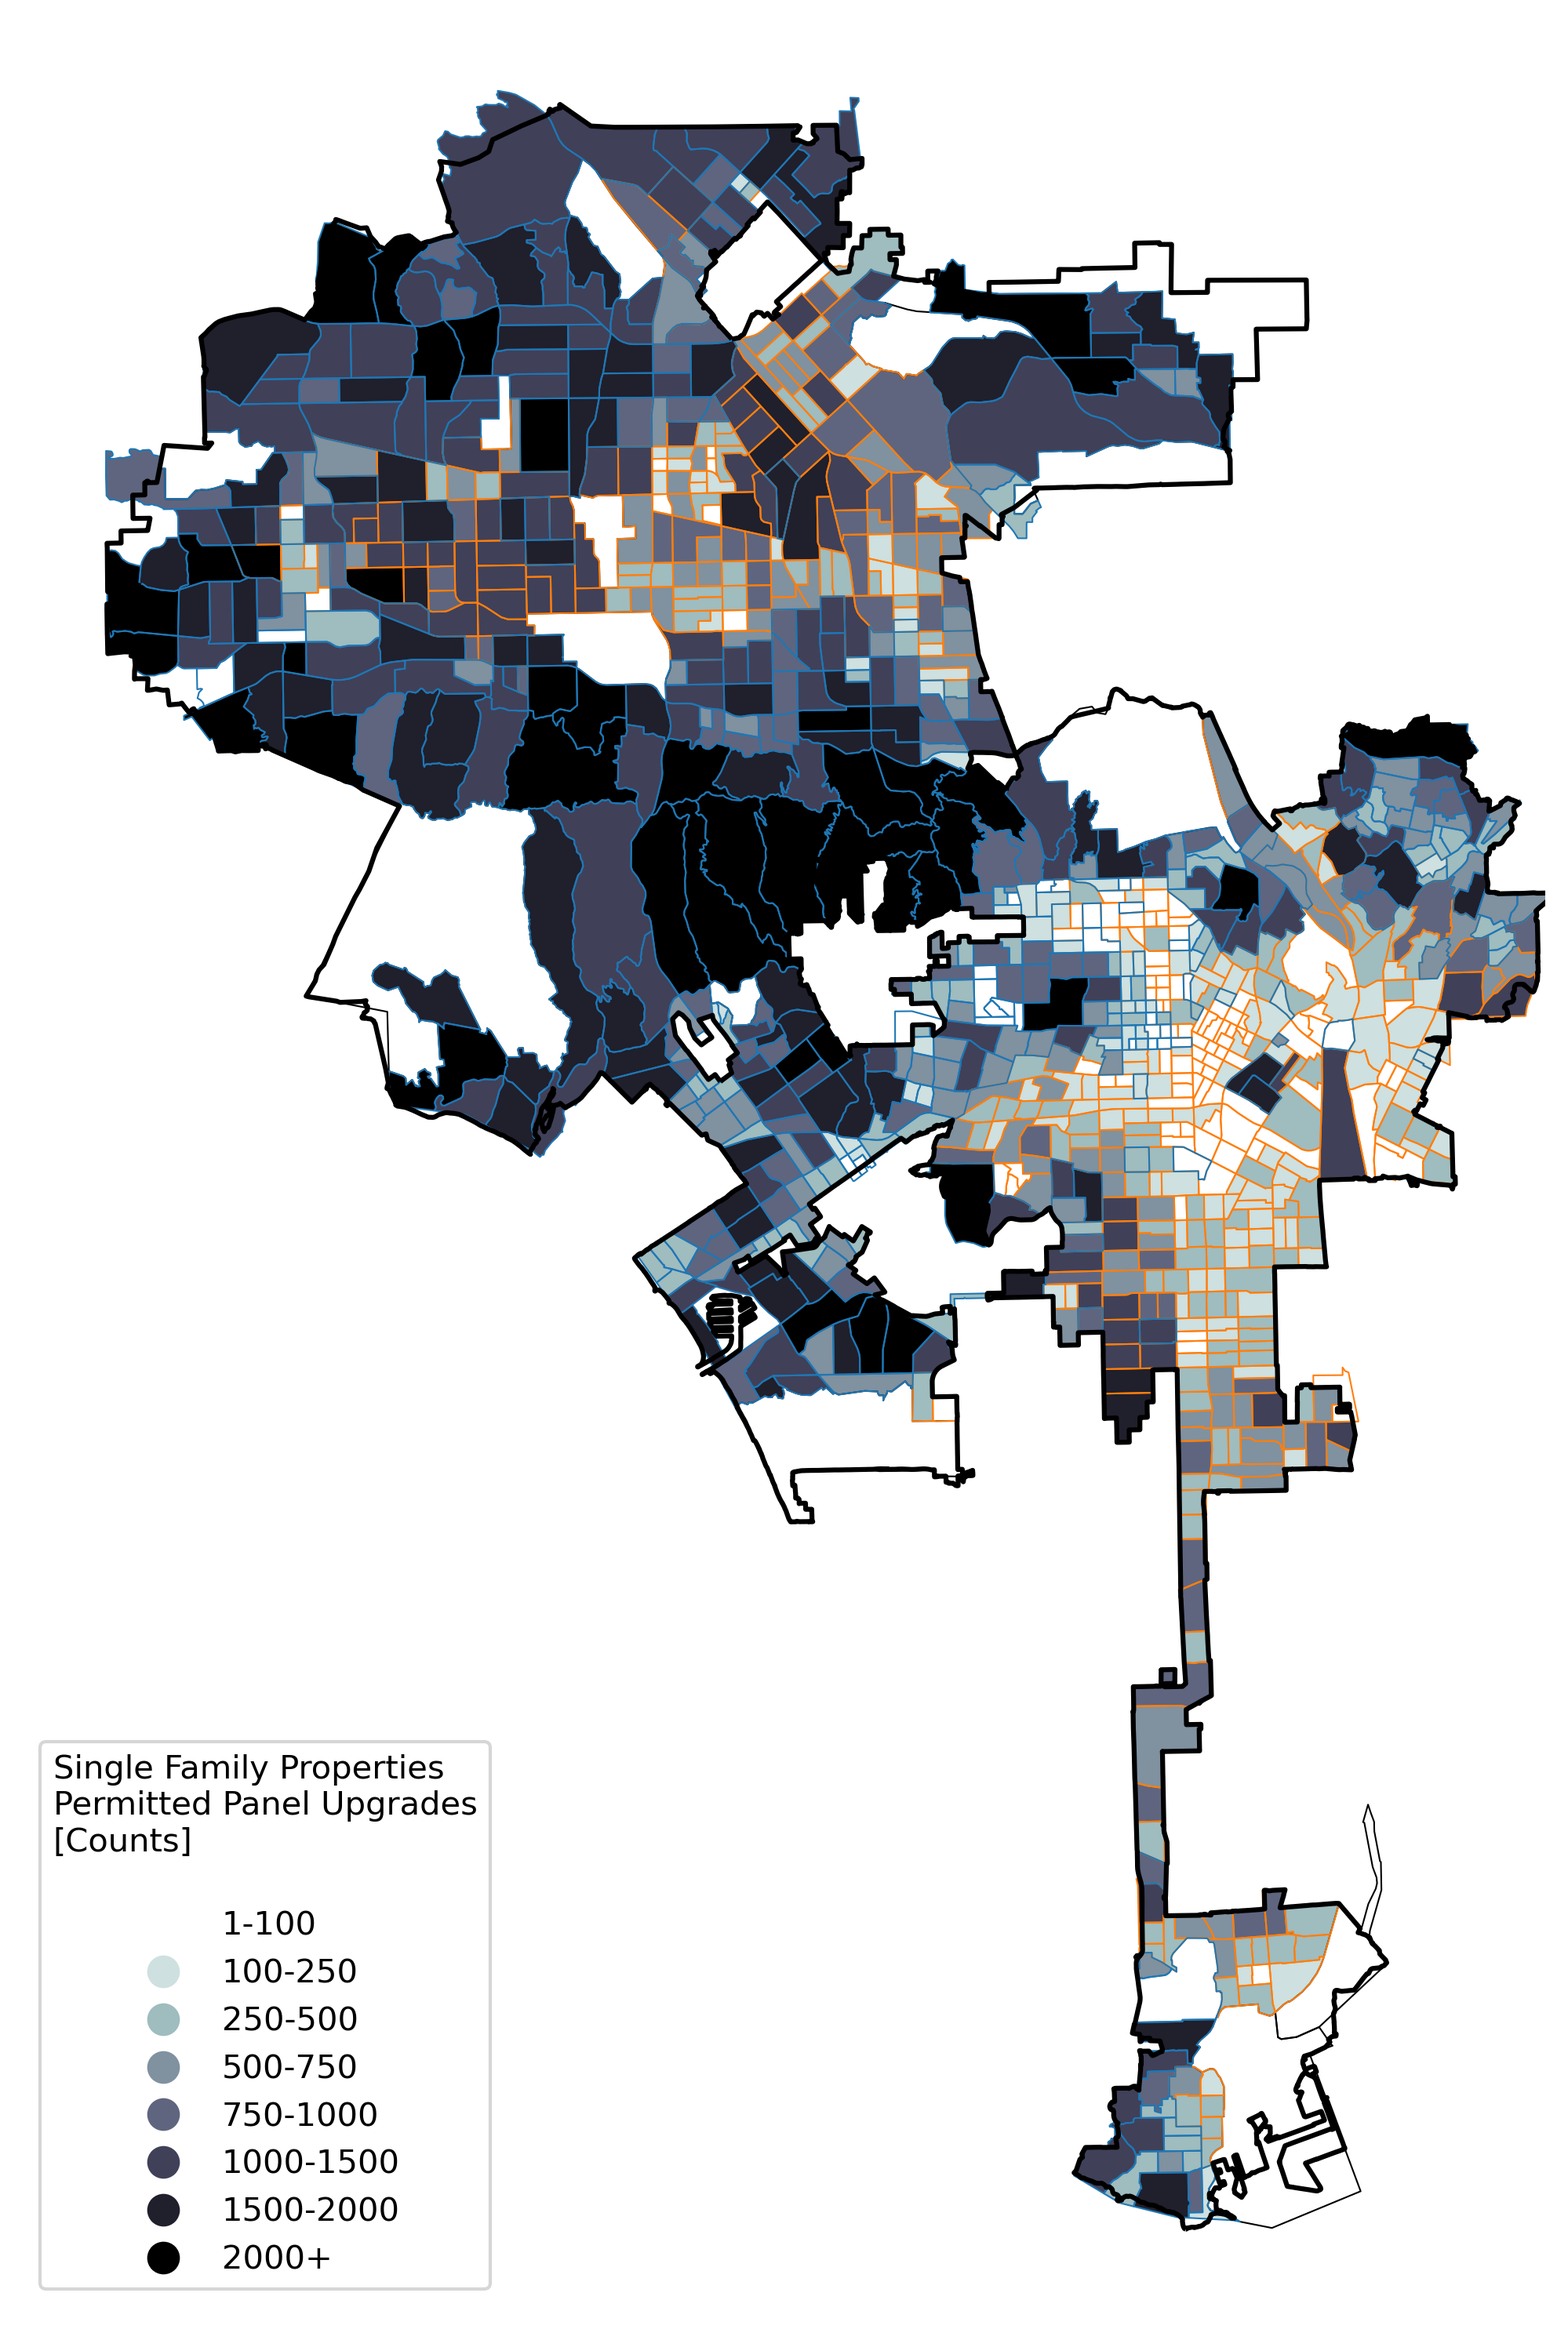
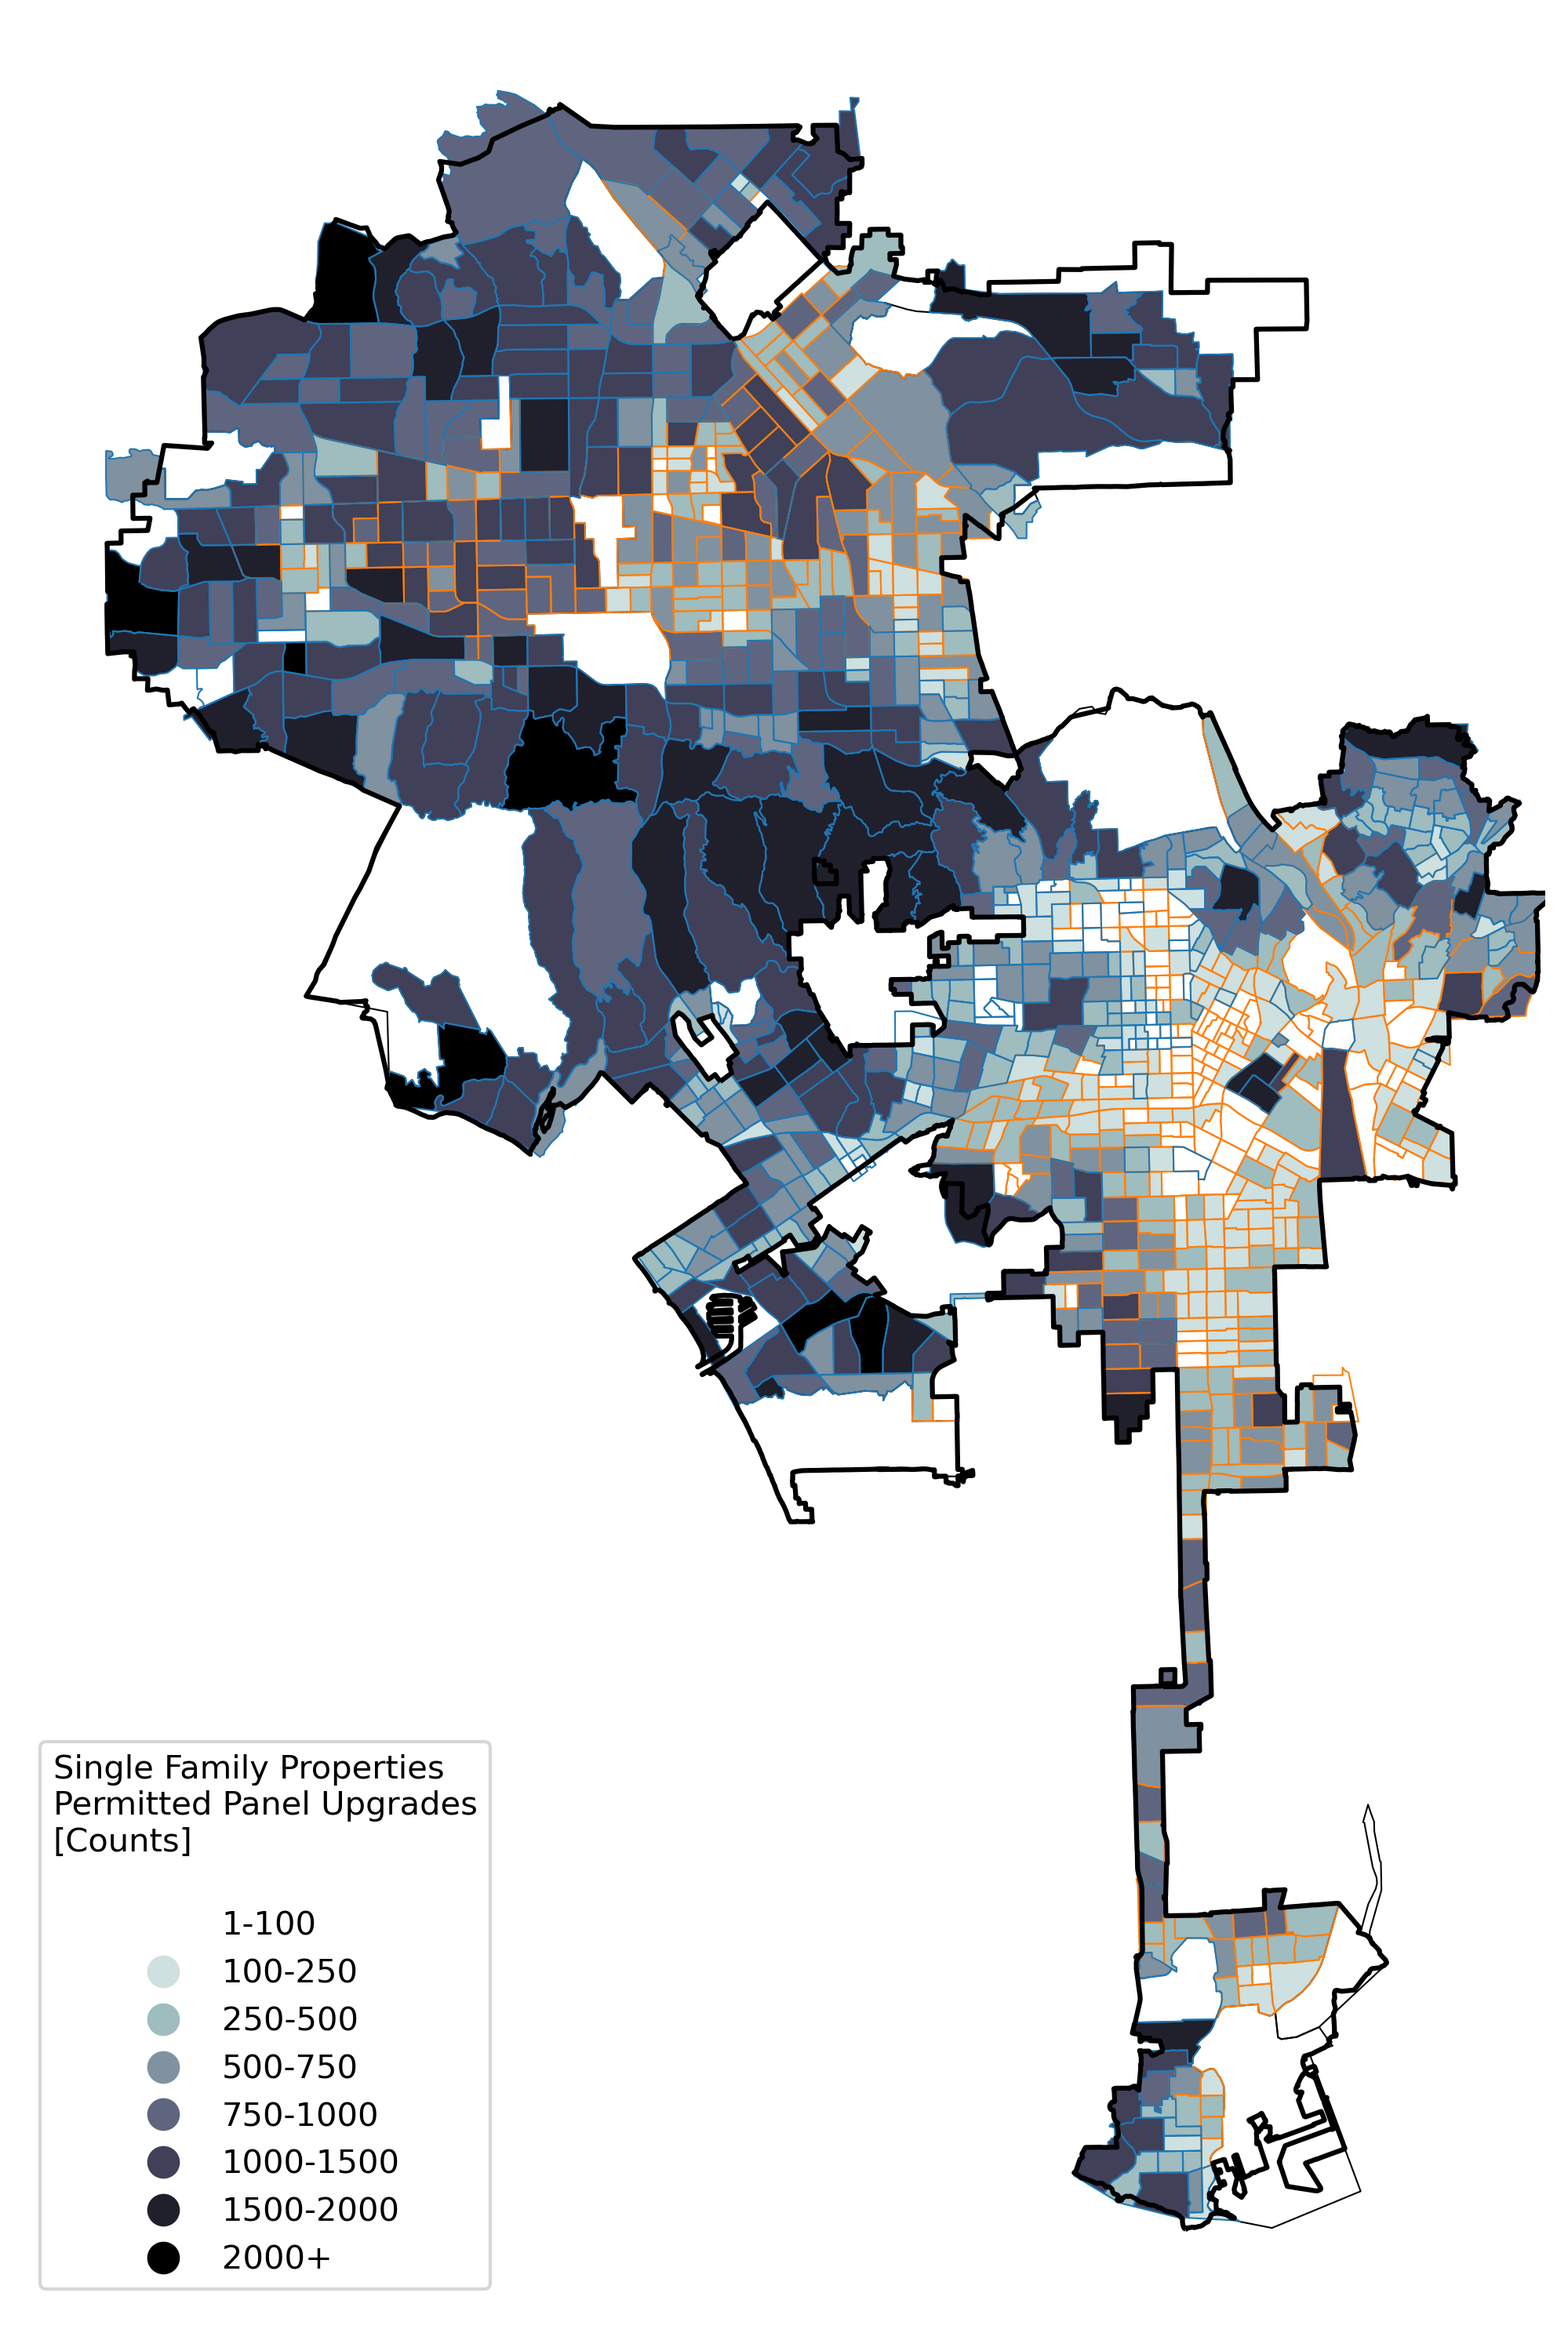
Coalesce Records for the Single Family Case

diff --git a/pu/pkg/utils.py b/pu/pkg/utils.py
@@ -3,32 +3,36 @@
 import pandas as pd
 import geopandas as gpd
 import numpy as np
+from tqdm import tqdm
 
-#%% Coalesce Multi-Family Records
+#%% Coalesce Records
 
-def CoalesceMultiFamily(mf_buildings):
+def CoalesceRecords(buildings):
 
-    unique_apns = mf_buildings['apn'].unique()
-    buildings = []
+    unique_ind = ~buildings['apn'].duplicated()
+    unique_buildings = buildings.loc[unique_ind,:].copy()
 
-    for apn in unique_apns:
+    not_unique_ind = ~unique_ind
+    not_unique_buildings = buildings.loc[not_unique_ind,:].copy()
+    not_unique_apns = not_unique_buildings['apn'].unique()
 
-        ind = mf_buildings['apn'] == apn
-        sample = mf_buildings.loc[ind,:].copy()
+    output = []
 
-        if sample.shape[0] > 1:
-            building = sample.iloc[0].copy()
-            descriptions = sample.loc[:,'permit_description'].copy()
-            description = descriptions.str.cat(sep='; ')
-            building.loc['permit_description'] = description
-            buildings.append(building)
-        else:
-            building = sample.copy()
-            buildings.append(building)
+    for i in tqdm(range(len(not_unique_apns))):
+        apn = not_unique_apns[i]
+        ind = not_unique_buildings['apn'] == apn
+        sample = not_unique_buildings.loc[ind,:].copy()
+        building = sample.iloc[0].copy()
+        descriptions = sample.loc[:,'permit_description'].copy()
+        description = descriptions.str.cat(sep='; ')
+        building.loc['permit_description'] = description
+        output.append(building)
 
-    output = pd.concat(buildings, axis = 0)
+    output = pd.concat(output, axis = 0)
+    final = pd.concat([unique_buildings, output], axis = 0, ignore_index = True)
 
-    return output
+    return final
+
 
 #%% Function Merge Parcels with CES Data
 
@@ -236,21 +240,22 @@ def ExistingPanelRatingsDiagnostics(buildings_ces, sector):
 
         insufficient = [30.0, 40.0, 60.0]
         uncertain = [100.0, 125.0, 150.0]
-        sufficient = [200.0, 225.0, 300.0, 400.0, 600.0, 800.0, 1000.0, 1200.0]
+        sufficient = [200.0, 225.0, 300.0, 400.0, 600.0, 800.0, 1000.0, 1200.0, 1400.0]
 
         print('DAC Existing Capacity Stats:')
 
-        print('<100 Amps: {:.2f}%'.format(dac_sample_stats[insufficient].sum() / dac_sample.shape[0] * 100))
-        print('>=100 : <200 Amps: {:.2f}%'.format(dac_sample_stats[uncertain].sum() / dac_sample.shape[0] * 100))
-        print('>=200 Amps: {:.2f}%'.format(dac_sample_stats[sufficient].sum() / dac_sample.shape[0] * 100))
+
+        print('<100 Amps: {:.2f}%'.format(dac_sample_stats[dac_sample_stats.index.isin(insufficient)].sum() / dac_sample.shape[0] * 100))
+        print('>=100 : <200 Amps: {:.2f}%'.format(dac_sample_stats[dac_sample_stats.index.isin(uncertain)].sum() / dac_sample.shape[0] * 100))
+        print('>=200 Amps: {:.2f}%'.format(dac_sample_stats[dac_sample_stats.index.isin(sufficient)].sum() / dac_sample.shape[0] * 100))
 
         print('\n')
 
         print('Non-DAC Existing Capacity Stats:')
 
-        print('<100 Amps: {:.2f}%'.format(non_dac_sample_stats[insufficient].sum() / non_dac_sample.shape[0] * 100))
-        print('>=100 : <200 Amps: {:.2f}%'.format(non_dac_sample_stats[uncertain].sum() / non_dac_sample.shape[0] * 100))
-        print('>=200 Amps: {:.2f}%'.format(non_dac_sample_stats[sufficient].sum() / non_dac_sample.shape[0] * 100))
+        print('<100 Amps: {:.2f}%'.format(non_dac_sample_stats[non_dac_sample_stats.index.isin(insufficient)].sum() / non_dac_sample.shape[0] * 100))
+        print('>=100 : <200 Amps: {:.2f}%'.format(non_dac_sample_stats[non_dac_sample_stats.index.isin(uncertain)].sum() / non_dac_sample.shape[0] * 100))
+        print('>=200 Amps: {:.2f}%'.format(non_dac_sample_stats[non_dac_sample_stats.index.isin(sufficient)].sum() / non_dac_sample.shape[0] * 100))
 
         print('\n')
 

diff --git a/pu/pkg/io.py b/pu/pkg/io.py
@@ -10,20 +10,20 @@ import os
 def ImportBuildingPermitData(sector):
     '''Function to import pre-processed single family building
     permit data from local postgres database'''
-    
+
     # Extract Database Connection Parameters from Environment
-    host = os.getenv('PG_HOST')
-    user = os.getenv('PG_USER')
-    password = os.getenv('PG_PASS')
-    port = os.getenv('PG_PORT')
-    db = os.getenv('PG_DB')
+    host = os.getenv('PGHOST')
+    user = os.getenv('PGUSER')
+    password = os.getenv('PGPASS')
+    port = os.getenv('PGPORT')
+    db = os.getenv('PGDATABASE')
 
     # Establish DB Connection
     db_con_string = 'postgresql://' + user + '@' + host + ':' + port + '/' + db
     db_con = sql.create_engine(db_con_string)
 
     if sector == 'single_family':
-        
+
         # Read Input Table from DB
         buildings_sql = '''SELECT    "ztrax_rowid",
                                     "apn",
@@ -125,15 +125,15 @@ def ImportBuildingPermitData(sector):
 #%% Read Census Tract Level DAC Data
 
 def ImportCalEnviroScreenData():
-    '''Function to import cal-enviro-screen census tract level 
+    '''Function to import cal-enviro-screen census tract level
     geospatial data from local postgres database'''
 
     # Extract Database Connection Parameters from Environment
-    host = os.getenv('PG_HOST')
-    user = os.getenv('PG_USER')
-    password = os.getenv('PG_PASS')
-    port = os.getenv('PG_PORT')
-    db = os.getenv('PG_DB')
+    host = os.getenv('PGHOST')
+    user = os.getenv('PGUSER')
+    password = os.getenv('PGPASS')
+    port = os.getenv('PGPORT')
+    db = os.getenv('PGDATABASE')
 
     # Establish DB Connection
     db_con_string = 'postgresql://' + user + '@' + host + ':' + port + '/' + db
@@ -144,7 +144,7 @@ def ImportCalEnviroScreenData():
     ces4 = gpd.read_postgis(ces4_sql, db_con, geom_col = 'geom')
     cols = [x.lower() for x in ces4.columns]
     ces4.columns = cols
-    
+
     return ces4
 
 #%% Import SB-535 DAC Data
@@ -154,11 +154,11 @@ def ImportSB535Data():
     data from local postgres database'''
 
     # Extract Database Connection Parameters from Environment
-    host = os.getenv('PG_HOST')
-    user = os.getenv('PG_USER')
-    password = os.getenv('PG_PASS')
-    port = os.getenv('PG_PORT')
-    db = os.getenv('PG_DB')
+    host = os.getenv('PGHOST')
+    user = os.getenv('PGUSER')
+    password = os.getenv('PGPASS')
+    port = os.getenv('PGPORT')
+    db = os.getenv('PGDATABASE')
 
     # Establish DB Connection
     db_con_string = 'postgresql://' + user + '@' + host + ':' + port + '/' + db
@@ -169,21 +169,21 @@ def ImportSB535Data():
     sb535 = gpd.read_postgis(sb535_sql, db_con, geom_col = 'geom')
     cols = [x.lower() for x in sb535.columns]
     sb535.columns = cols
-    
+
     return sb535
 
-#%% Read LADWP Boundary 
+#%% Read LADWP Boundary
 
 def ImportLadwpServiceTerritoryData():
-    '''Function to import ladwp utility service territory 
+    '''Function to import ladwp utility service territory
     geospatial data from local postgres database'''
 
     # Extract Database Connection Parameters from Environment
-    host = os.getenv('PG_HOST')
-    user = os.getenv('PG_USER')
-    password = os.getenv('PG_PASS')
-    port = os.getenv('PG_PORT')
-    db = os.getenv('PG_DB')
+    host = os.getenv('PGHOST')
+    user = os.getenv('PGUSER')
+    password = os.getenv('PGPASS')
+    port = os.getenv('PGPORT')
+    db = os.getenv('PGDATABASE')
 
     # Establish DB Connection
     db_con_string = 'postgresql://' + user + '@' + host + ':' + port + '/' + db

diff --git a/pu/main/sf_service_panel_upgrades.py b/pu/main/sf_service_panel_upgrades.py
@@ -17,6 +17,7 @@ sector = 'single_family'
 #%% Import SF Data and Context Layers
 
 sf_buildings = io.ImportBuildingPermitData(sector)
+sf_buildings = utils.CoalesceRecords(sf_buildings)
 ces4 = io.ImportCalEnviroScreenData()
 ladwp = io.ImportLadwpServiceTerritoryData()
 sf_buildings_ces = utils.AssignDACStatus(utils.MergeCES(sf_buildings, ces4))
@@ -37,6 +38,7 @@ panel_stats_ces_geo = utils.ChangeStatistics(sf_buildings_ces, ces4)
 plot.CountsMap(sf_buildings, ces4, ladwp, sector, figure_dir)
 plot.AsBuiltPanelRatingsMap(sf_buildings_ces, ces4, ladwp, sector, figure_dir)
 plot.AsBuiltPanelRatingsHist(sf_buildings_ces, ces4, ladwp, sector, figure_dir)
+plot.JointDistributionPlot(sf_buildings_ces, sector, figure_dir)
 plot.AsBuiltPanelRatingsBar(sf_buildings_ces, sector, figure_dir)
 plot.PermitTimeSeries(sf_buildings_ces, sector, figure_dir)
 plot.PermitCountsMap(sf_buildings_ces, ces4, ladwp, sector, figure_dir)
@@ -50,7 +52,7 @@ plot.ExistingPanelRatingsChangeAmpsHist(panel_stats_ces_geo, sector, figure_dir)
 #plot.ExistingPanelRatingsChangePctMap(panel_stats_ces_geo, ces4, ladwp, sector, figure_dir)
 plot.ExistingPanelRatingsHist(sf_buildings_ces, ces4, ladwp, sector, figure_dir)
 plot.ExistingPanelRatingsMap(panel_stats_ces_geo, ces4, ladwp, sector, figure_dir)
-plot.AreaNormalizedComparisonKDE(sf_building_ces, sector, figure_dir)
+plot.AreaNormalizedComparisonKDE(sf_buildings_ces, sector, figure_dir)
 
 #%% Print Diagnostics
 

diff --git a/pu/misc/report_calcs.py b/pu/misc/report_calcs.py
@@ -90,7 +90,7 @@ def dac_fn(a, b, x_hat, z):
 out = dac_fn(a, b, x_hat, z)
 
 dacs.loc[non_upgrade_ind,'panel_size_predicted_future_upgrade'] = out
-deficient_ind = dacs.loc[non_upgrade_ind,'panel_size_predicted_future_upgrade'] > dacs.loc[non_upgrade_ind, 'panel_size_existing']
+deficient_ind = (dacs.loc[non_upgrade_ind,'panel_size_predicted_future_upgrade']) < dacs.loc[non_upgrade_ind, 'panel_size_existing']
 upgrade_ratio = deficient_ind.sum() / dacs.shape[0]
 
 #%% Non-DAC Case
@@ -115,7 +115,7 @@ def non_dac_fn(a, b, x_hat, z):
 out = non_dac_fn(a, b, x_hat, z)
 
 non_dacs.loc[non_upgrade_ind,'panel_size_predicted_future_upgrade'] = out
-deficient_ind = non_dacs.loc[non_upgrade_ind,'panel_size_predicted_future_upgrade'] > non_dacs.loc[non_upgrade_ind, 'panel_size_existing']
+deficient_ind = (non_dacs.loc[non_upgrade_ind,'panel_size_predicted_future_upgrade']) < non_dacs.loc[non_upgrade_ind, 'panel_size_existing']
 upgrade_ratio = deficient_ind.sum() / non_dacs.shape[0]
 
 #%% Compute MF Permit Stats

diff --git a/pu/main/mf_service_panel_upgrades.py b/pu/main/mf_service_panel_upgrades.py
@@ -17,7 +17,7 @@ sector = 'multi_family'
 #%% Import Data and Context Layers
 
 mf_buildings = io.ImportBuildingPermitData(sector)
-mf_buildings = utils.CoalesceMultiFamily(mf_buildings)
+mf_buildings = utils.CoalesceRecords(mf_buildings)
 ces4 = io.ImportCalEnviroScreenData()
 ladwp = io.ImportLadwpServiceTerritoryData()
 mf_buildings_ces = utils.AssignDACStatus(utils.MergeCES(mf_buildings, ces4))
